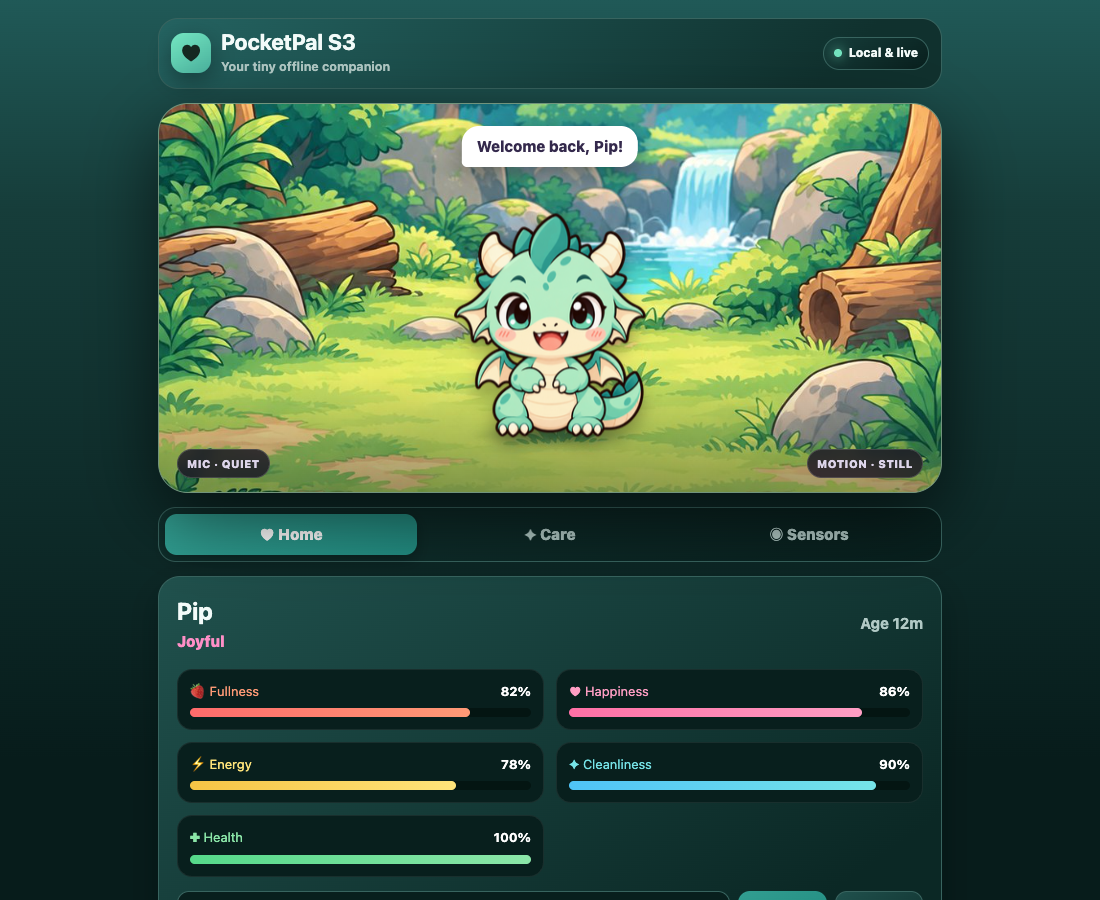
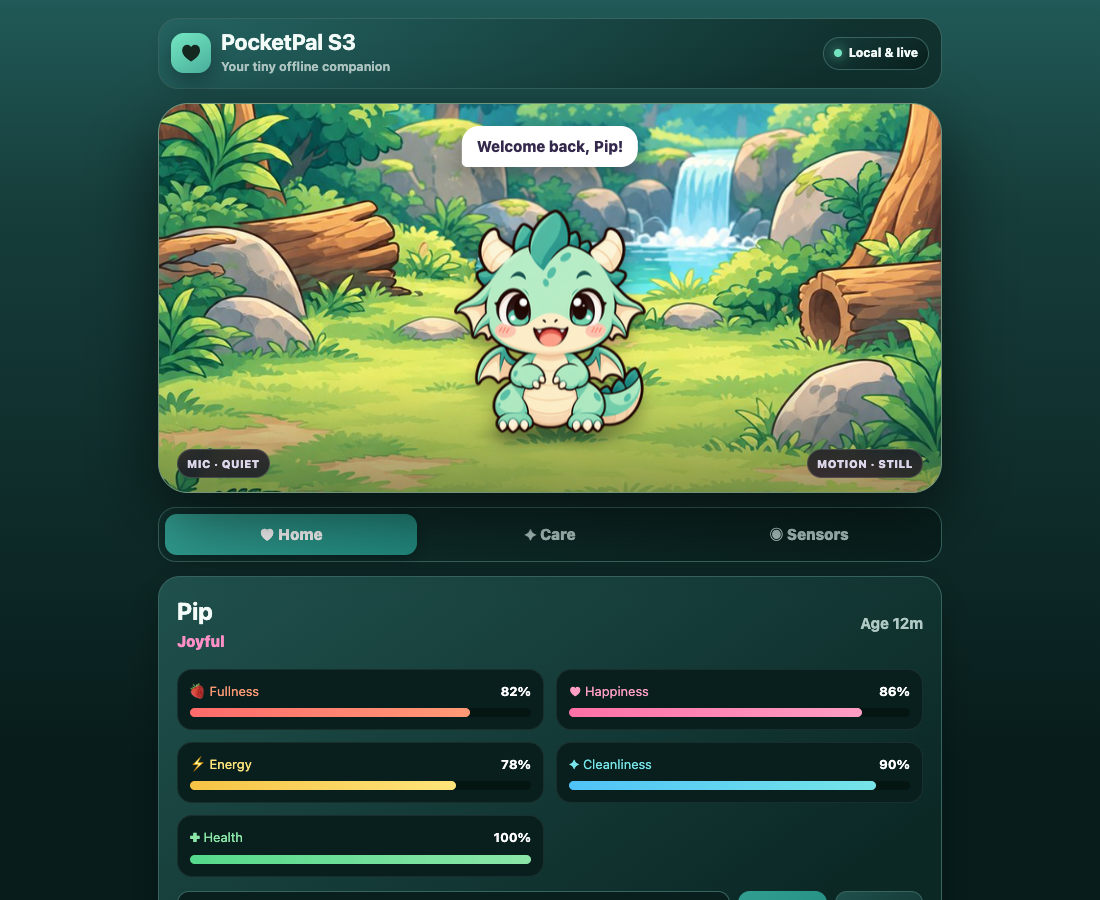
feat: add Soft White WebUI theme

Changed region(s): [[0.4018, 0.2178, 0.5873, 0.4978]]

diff --git a/src/WebPortal.cpp b/src/WebPortal.cpp
@@ -23,6 +23,7 @@ const char kPage[] PROGMEM = R"HTML(
 :root[data-theme="pine"]{--page-top:#2c5041;--header-top:#355e4c;--card-top:#2a493b;--button-top:#519b76}
 :root[data-theme="navy"]{--page-top:#214761;--header-top:#285775;--card-top:#203f57;--button-top:#4188b8}
 :root[data-theme="charcoal"]{--page-top:#3e3f43;--header-top:#4b4c50;--card-top:#3b3c40;--button-top:#81838a}
+:root[data-theme="white"]{color-scheme:light;--base:#ffffff;--bg:#e8efec;--surface:#f0f5f2;--surface2:#ffffff;--line:#c6d7d0;--ink:#203c33;--muted:#50655c;--accent:#146556;--accent-hover:#175d50;--input:#ffffff;--panel:#f1f5f3;--track:#d8e2dd;--page-top:#ffffff;--header-top:#ffffff;--card-top:#ffffff;--button-top:#23796a}
 *{box-sizing:border-box}body{margin:0;min-height:100vh;background:linear-gradient(180deg,var(--page-top) 0,var(--base) 210px,var(--bg) 760px);background-color:var(--bg);font:15px/1.4 ui-rounded,system-ui,-apple-system,sans-serif;color:var(--ink)}button,input,select{font:inherit}button{color:inherit}main{width:min(100%,820px);margin:auto;padding:18px 18px 34px}.topbar{display:flex;align-items:center;justify-content:space-between;margin:0 0 14px;padding:12px;border:1px solid var(--line);border-radius:20px;background:linear-gradient(135deg,var(--header-top),var(--surface) 85%)}.brand{display:flex;align-items:center;gap:10px}.logo{display:grid;place-items:center;width:40px;height:40px;border-radius:13px;background:linear-gradient(145deg,var(--mint),#4bb39f);color:#152820;font-size:23px;box-shadow:0 8px 24px #0005}.brand h1{margin:0;font-size:22px;line-height:1}.brand small{display:block;margin-top:5px;color:var(--muted);font-weight:650}.online{display:flex;align-items:center;gap:7px;padding:7px 10px;border:1px solid var(--line);border-radius:99px;background:linear-gradient(145deg,var(--surface2),var(--input));color:var(--ink);font-size:12px;font-weight:800}.dot{width:8px;height:8px;border-radius:50%;background:var(--mint);box-shadow:0 0 12px var(--mint)}
 .room{position:relative;height:390px;overflow:hidden;border:1px solid #71937c;border-radius:30px;background:#365941 url('/room/forest-wide.jpg') center center/cover no-repeat;box-shadow:0 24px 70px #0009}.room:before{content:'';position:absolute;inset:0;background:linear-gradient(transparent 70%,#10251d66);pointer-events:none}.ground-shadow{position:absolute;z-index:2;left:50%;bottom:45px;width:165px;height:25px;transform:translateX(-50%);border-radius:50%;background:radial-gradient(ellipse,#16382980,transparent 70%);filter:blur(3px)}.bubble{position:absolute;z-index:4;top:22px;left:50%;max-width:min(330px,62%);transform:translateX(-50%);padding:10px 15px;border-radius:17px 17px 17px 5px;background:#fff;color:#34294c;font-weight:800;text-align:center;box-shadow:0 8px 22px #0005}.room-meta{position:absolute;z-index:5;left:18px;right:18px;bottom:13px;display:flex;justify-content:space-between;pointer-events:none}.chip{padding:6px 9px;border:1px solid #ffffff25;border-radius:99px;background:#171122c9;backdrop-filter:blur(8px);color:#ddd5ea;font-size:11px;font-weight:850;text-transform:uppercase;letter-spacing:.04em}
 .pet{position:absolute;z-index:3;left:50%;bottom:49px;width:230px;height:230px;transform:translateX(-50%);transform-origin:50% 95%;animation:bob 2.2s ease-in-out infinite}.dragon{display:block;width:100%;height:100%;object-fit:contain;filter:drop-shadow(0 10px 8px #0004)}.pet.sleeping{animation:none}.pet.sleeping:after{content:'Z z';position:absolute;right:12px;top:72px;color:#fff;font-weight:900;font-size:23px}.pet.excited{animation:bob .72s ease-in-out infinite}.pet.surprised{animation:jump .42s ease-out infinite}.pet.motion-tilt-left{animation:none;transform:translateX(-56%) rotate(-7deg)}.pet.motion-tilt-right{animation:none;transform:translateX(-44%) rotate(7deg)}.pet.motion-tilt-forward{animation:none;transform:translateX(-50%) scale(.94)}.pet.motion-tilt-back{animation:none;transform:translateX(-50%) scale(1.06)}.pet.motion-shake{animation:shake .18s linear infinite}.pet.motion-rocking{animation:rock .7s ease-in-out infinite}
@@ -35,11 +36,24 @@ const char kPage[] PROGMEM = R"HTML(
 .stat[data-stat="fullness"]{--stat-start:#FF6B6B;--stat-end:#FF9A76}.stat[data-stat="happiness"]{--stat-start:#FF70A6;--stat-end:#FF9EC4}.stat[data-stat="energy"]{--stat-start:#F6C445;--stat-end:#FFE47A}.stat[data-stat="cleanliness"]{--stat-start:#4FC3F7;--stat-end:#76E4E8}.stat[data-stat="health"]{--stat-start:#55D98A;--stat-end:#8BE6A8}.stat .fill{background:linear-gradient(90deg,var(--stat-start),var(--stat-end))}.stat label span{color:var(--stat-end)}
 .settings{display:grid;grid-template-columns:minmax(0,1fr) auto auto}.theme-picker[hidden]{display:none}.theme-picker{margin:12px 0 0;padding:12px;border:1px solid var(--line);border-radius:15px;background:var(--input)}.theme-picker legend{color:var(--muted);padding:0 6px;font-size:13px}.theme-options{display:grid;grid-template-columns:repeat(2,minmax(0,1fr));gap:8px}.theme-choice{display:flex;align-items:center;gap:9px;min-height:44px;padding:9px;border:1px solid var(--line);border-radius:11px;background:linear-gradient(145deg,var(--surface2),var(--panel));text-align:left;font-size:12px;font-weight:750;cursor:pointer}.theme-choice[aria-pressed="true"]{border-color:var(--mint);box-shadow:inset 0 0 0 1px var(--mint)}.swatch{flex:none;width:21px;height:21px;border:1px solid #ffffff66;border-radius:50%;background:linear-gradient(145deg,#ffffff28,transparent 75%),var(--swatch)}.theme-choice:disabled{opacity:.65;cursor:wait}.color-message{margin:8px 0 0;font-size:12px;color:var(--muted)}button:focus-visible,input:focus-visible,select:focus-visible{outline:2px solid var(--mint);outline-offset:3px}
 @media(max-width:620px){.settings{grid-template-columns:1fr 1fr}.settings input{grid-column:1/-1}.theme-options{grid-template-columns:1fr 1fr}}
+:root[data-theme="white"] .stat b,:root[data-theme="white"] .settings input,:root[data-theme="white"] .controls select,:root[data-theme="white"] .secondary,:root[data-theme="white"] .action{color:var(--ink)}
+:root[data-theme="white"] .stat,:root[data-theme="white"] .action{border-color:var(--line)}
+:root[data-theme="white"] .stat label span{color:var(--muted)}
+:root[data-theme="white"] .mood{color:#a23261}
+:root[data-theme="white"] .sensor-state{color:var(--accent)}
+:root[data-theme="white"] .action:hover,:root[data-theme="white"] .action:hover small{color:#fff}
+:root[data-theme="white"] .card,:root[data-theme="white"] .tabs{box-shadow:0 8px 25px #203c3312}
+:root[data-theme="white"] .room{box-shadow:0 12px 32px #203c3326}
+:root[data-theme="white"] .logo{box-shadow:0 4px 12px #203c3320}
+:root[data-theme="white"] .swatch{border-color:#82998f}
+:root[data-theme="white"] .theme-choice[aria-pressed="true"]{border-color:var(--accent);box-shadow:inset 0 0 0 1px var(--accent)}
+:root[data-theme="white"] button:focus-visible,:root[data-theme="white"] input:focus-visible,:root[data-theme="white"] select:focus-visible{outline-color:var(--accent)}
+:root[data-theme="white"] input::placeholder{color:var(--muted);opacity:1}
 </style></head><body><main>
 <header class="topbar"><div class="brand"><div class="logo">♥</div><div><h1>PocketPal S3</h1><small>Your tiny offline companion</small></div></div><div class="online"><span class="dot"></span><span>Local &amp; live</span></div></header>
 <section class="room" aria-label="PocketPal forest clearing"><div id="bubble" class="bubble" aria-live="polite">Waking up…</div><div class="ground-shadow"></div><div id="pet" class="pet"><img id="dragon" class="dragon" src="/pet/idle.png" alt="Mint-green PocketPal dragon" width="240" height="240"></div><div class="room-meta"><span id="soundChip" class="chip">Mic · calibrating</span><span id="motionChip" class="chip">Motion · calibrating</span></div></section>
 <nav class="tabs" aria-label="PocketPal sections"><button class="tab active" data-panel="home" onclick="showPanel('home')">♥ Home</button><button class="tab" data-panel="care" onclick="showPanel('care')">✦ Care</button><button class="tab" data-panel="sensors" onclick="showPanel('sensors')">◉ Sensors</button></nav>
-<section id="home" class="panel active"><div class="card"><div class="identity"><div><h2 id="name">Pip</h2><div id="mood" class="mood">Content</div></div><div id="age" class="age">Age 0m</div></div><div id="stats" class="stats"></div><form class="settings" onsubmit="renamePet(event)"><input id="newName" maxlength="12" aria-label="New pet name" placeholder="Give your pal a new name"><button class="primary">Rename</button><button id="colorButton" class="secondary" type="button" aria-expanded="false" aria-controls="themePicker" onclick="toggleColors()">◐ Color</button></form><fieldset id="themePicker" class="theme-picker" hidden><legend>Choose your color</legend><div class="theme-options"><button type="button" class="theme-choice" data-theme-choice="teal" aria-pressed="true" onclick="setTheme('teal')"><span class="swatch" style="--swatch:#163D3A" aria-hidden="true"></span>Deep Forest Teal</button><button type="button" class="theme-choice" data-theme-choice="purple" aria-pressed="false" onclick="setTheme('purple')"><span class="swatch" style="--swatch:#513c77" aria-hidden="true"></span>Purple</button><button type="button" class="theme-choice" data-theme-choice="pine" aria-pressed="false" onclick="setTheme('pine')"><span class="swatch" style="--swatch:#1E352D" aria-hidden="true"></span>Dark Pine</button><button type="button" class="theme-choice" data-theme-choice="navy" aria-pressed="false" onclick="setTheme('navy')"><span class="swatch" style="--swatch:#172A3A" aria-hidden="true"></span>Deep Navy</button><button type="button" class="theme-choice" data-theme-choice="charcoal" aria-pressed="false" onclick="setTheme('charcoal')"><span class="swatch" style="--swatch:#292A2D" aria-hidden="true"></span>Warm Charcoal</button></div><p id="colorMessage" class="color-message" role="status">Saved on your PocketPal.</p></fieldset></div></section>
+<section id="home" class="panel active"><div class="card"><div class="identity"><div><h2 id="name">Pip</h2><div id="mood" class="mood">Content</div></div><div id="age" class="age">Age 0m</div></div><div id="stats" class="stats"></div><form class="settings" onsubmit="renamePet(event)"><input id="newName" maxlength="12" aria-label="New pet name" placeholder="Give your pal a new name"><button class="primary">Rename</button><button id="colorButton" class="secondary" type="button" aria-expanded="false" aria-controls="themePicker" onclick="toggleColors()">◐ Color</button></form><fieldset id="themePicker" class="theme-picker" hidden><legend>Choose your color</legend><div class="theme-options"><button type="button" class="theme-choice" data-theme-choice="teal" aria-pressed="true" onclick="setTheme('teal')"><span class="swatch" style="--swatch:#163D3A" aria-hidden="true"></span>Deep Forest Teal</button><button type="button" class="theme-choice" data-theme-choice="purple" aria-pressed="false" onclick="setTheme('purple')"><span class="swatch" style="--swatch:#513c77" aria-hidden="true"></span>Purple</button><button type="button" class="theme-choice" data-theme-choice="pine" aria-pressed="false" onclick="setTheme('pine')"><span class="swatch" style="--swatch:#1E352D" aria-hidden="true"></span>Dark Pine</button><button type="button" class="theme-choice" data-theme-choice="navy" aria-pressed="false" onclick="setTheme('navy')"><span class="swatch" style="--swatch:#172A3A" aria-hidden="true"></span>Deep Navy</button><button type="button" class="theme-choice" data-theme-choice="charcoal" aria-pressed="false" onclick="setTheme('charcoal')"><span class="swatch" style="--swatch:#292A2D" aria-hidden="true"></span>Warm Charcoal</button><button type="button" class="theme-choice" data-theme-choice="white" aria-pressed="false" onclick="setTheme('white')"><span class="swatch" style="--swatch:#ffffff" aria-hidden="true"></span>Soft White</button></div><p id="colorMessage" class="color-message" role="status">Saved on your PocketPal.</p></fieldset></div></section>
 <section id="care" class="panel"><div class="card"><div class="section-title"><div><h2>Care time</h2><p>Every little action shapes your pal’s day.</p></div></div><div class="actions"><button class="action" onclick="act('feed')"><span>🍓</span><b>Feed</b><small>Restore fullness</small></button><button class="action" onclick="act('play')"><span>🎾</span><b>Play</b><small>Build happiness</small></button><button class="action" onclick="act('clean')"><span>🫧</span><b>Clean</b><small>Fresh and sparkly</small></button><button class="action" onclick="act('sleep')"><span>🌙</span><b>Sleep</b><small>Rest or wake up</small></button><button class="action" onclick="act('pet')"><span>💗</span><b>Pet</b><small>Share affection</small></button></div></div></section>
 <section id="sensors" class="panel"><div class="card"><div class="section-title"><div><h2>Reactions</h2><p>Live signals processed privately on your PocketPal.</p></div></div><div class="sensor-grid"><article class="sensor"><div class="sensor-head"><span class="sensor-title">🎙 Sound</span><span id="soundState" class="sensor-state">Calibrating</span></div><div class="meter"><div id="soundFill" class="meter-fill"></div></div><div class="controls"><button id="muteButton" class="secondary" onclick="setSound('toggle')">Mute</button><label>Sensitivity <select id="sensitivity" onchange="setSensitivity(this.value)"><option value="1">Low</option><option value="2">Medium</option><option value="3">High</option></select></label></div><p class="note">Reacts to loudness only. No audio is saved.</p></article><article class="sensor motion"><div class="sensor-head"><span class="sensor-title">🧭 Motion</span><span id="motionState" class="sensor-state">Calibrating</span></div><div class="meter"><div id="motionFill" class="meter-fill"></div></div><div class="controls"><label>Sensitivity <select id="motionSensitivity" onchange="setMotionSensitivity(this.value)"><option value="1">Low</option><option value="2">Medium</option><option value="3">High</option></select></label></div><p class="note">Tilt to lean, shake to play, rock to sleep.</p></article></div><div class="privacy">🔒 Everything stays between this browser and PocketPal. No internet, cloud account, recordings, or telemetry.</div></div></section>
 <p class="foot">Connected directly to PocketPal · http://pocketpal</p></main>
@@ -49,7 +63,7 @@ const soundMessages={low:"I'm listening…",medium:'I hear you!',high:'Whoa! Tha
 const motionMessages={shake:'That was fun!',rocking:'Getting sleepy…'};
 const byId=id=>document.getElementById(id);
 let savingTheme=false;
-function applyTheme(theme){if(!['teal','purple','pine','navy','charcoal'].includes(theme))theme='teal';document.documentElement.dataset.theme=theme;document.querySelectorAll('[data-theme-choice]').forEach(button=>button.setAttribute('aria-pressed',String(button.dataset.themeChoice===theme)))}
+function applyTheme(theme){if(!['teal','purple','pine','navy','charcoal','white'].includes(theme))theme='teal';document.documentElement.dataset.theme=theme;document.querySelectorAll('[data-theme-choice]').forEach(button=>button.setAttribute('aria-pressed',String(button.dataset.themeChoice===theme)))}
 function toggleColors(){const picker=byId('themePicker');picker.hidden=!picker.hidden;byId('colorButton').setAttribute('aria-expanded',String(!picker.hidden));if(!picker.hidden)picker.querySelector('[aria-pressed="true"]').focus()}
 async function setTheme(theme){if(savingTheme)return;const previous=document.documentElement.dataset.theme||'teal';savingTheme=true;applyTheme(theme);document.querySelectorAll('.theme-choice').forEach(button=>button.disabled=true);byId('colorMessage').textContent='Saving color…';try{const response=await post('/api/theme','theme='+encodeURIComponent(theme));if(!response.ok)throw Error();byId('colorMessage').textContent='Color saved on your PocketPal.'}catch(error){applyTheme(previous);byId('colorMessage').textContent='Could not save. Check your connection and try again.'}finally{savingTheme=false;document.querySelectorAll('.theme-choice').forEach(button=>button.disabled=false)}}
 function showPanel(id){document.querySelectorAll('.panel').forEach(p=>p.classList.toggle('active',p.id===id));document.querySelectorAll('.tab').forEach(t=>t.classList.toggle('active',t.dataset.panel===id))}
@@ -186,12 +200,12 @@ void WebPortal::handleMotion() {
 
 bool WebPortal::validTheme(const String &theme) {
     return theme == "teal" || theme == "purple" || theme == "pine" ||
-           theme == "navy" || theme == "charcoal";
+           theme == "navy" || theme == "charcoal" || theme == "white";
 }
 
 void WebPortal::handleTheme() {
     if (!server_.hasArg("theme") || !validTheme(server_.arg("theme"))) {
-        server_.send(400, "application/json", "{\"ok\":false,\"error\":\"Choose one of the five themes.\"}");
+        server_.send(400, "application/json", "{\"ok\":false,\"error\":\"Choose one of the six themes.\"}");
         return;
     }
     const String requested = server_.arg("theme");

diff --git a/src/main.cpp b/src/main.cpp
@@ -9,7 +9,7 @@
 #include "WebPortal.h"
 
 namespace {
-constexpr char kVersion[] = "v0.6.1";
+constexpr char kVersion[] = "v0.6.2";
 constexpr uint8_t kSelectPin = 11;
 constexpr uint8_t kNextPin = 12;
 constexpr uint8_t kBrightness = 90;

diff --git a/README.md b/README.md
@@ -2,7 +2,7 @@
 
 PocketPal S3 is an interactive virtual pet with a live, offline WebUI for the M5StickS3.
 
-> **Early development — v0.6.1.** The forest WebUI has five gradient color themes, and both displays share five color-coded care stats.
+> **Early development — v0.6.2.** The forest WebUI has six gradient color themes, and both displays share five color-coded care stats.
 
 ## First milestone
 
@@ -57,10 +57,12 @@ background is served directly from firmware; source and conversion instructions
 are in [assets/room](assets/room/README.md).
 
 Use **Color** beside **Rename** at the bottom of Home to choose Deep Forest Teal
-(the default), Purple, Dark Pine, Deep Navy, or Warm Charcoal. The choice is saved
+(the default), Purple, Dark Pine, Deep Navy, Warm Charcoal, or Soft White. The choice is saved
 on PocketPal, survives a restart, and is shared by connected browsers.
 Each theme uses a richer colored top fading to a dark page background, with
 matching gradients on the header, cards, and buttons.
+Soft White instead uses light surfaces, dark text, softer shadows, and teal
+controls. The existing dark themes and stat bar colors are unchanged.
 
 Fullness is coral, Happiness pink, Energy gold, Cleanliness aqua, and Health
 green. These stat gradients stay consistent across themes and match the five

diff --git a/CHANGELOG.md b/CHANGELOG.md
@@ -1,5 +1,11 @@
 # Changelog
 
+## v0.6.2
+
+- Added Soft White as the sixth saved WebUI theme, keeping Deep Forest Teal as default.
+- Added subtle light gradients, dark readable text, teal controls, and softer shadows for the white theme.
+- Kept all five dark themes, forest artwork, and stat bar gradients unchanged.
+
 ## v0.6.1
 
 - Added richer light-to-dark page, header, card, and button gradients across all five WebUI themes.
